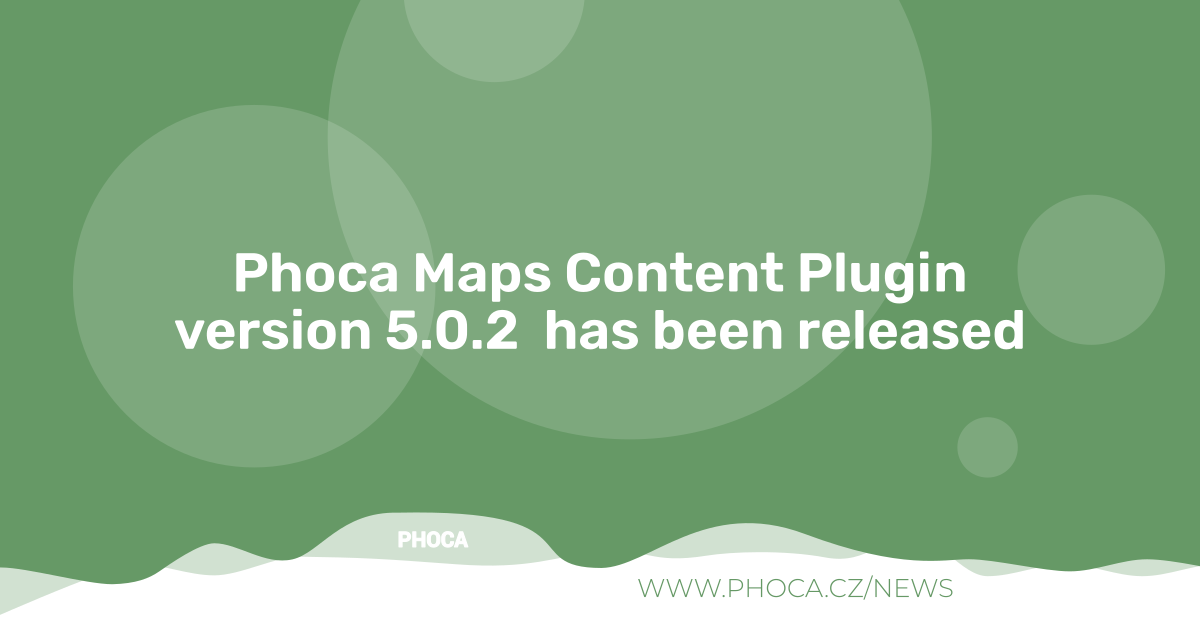
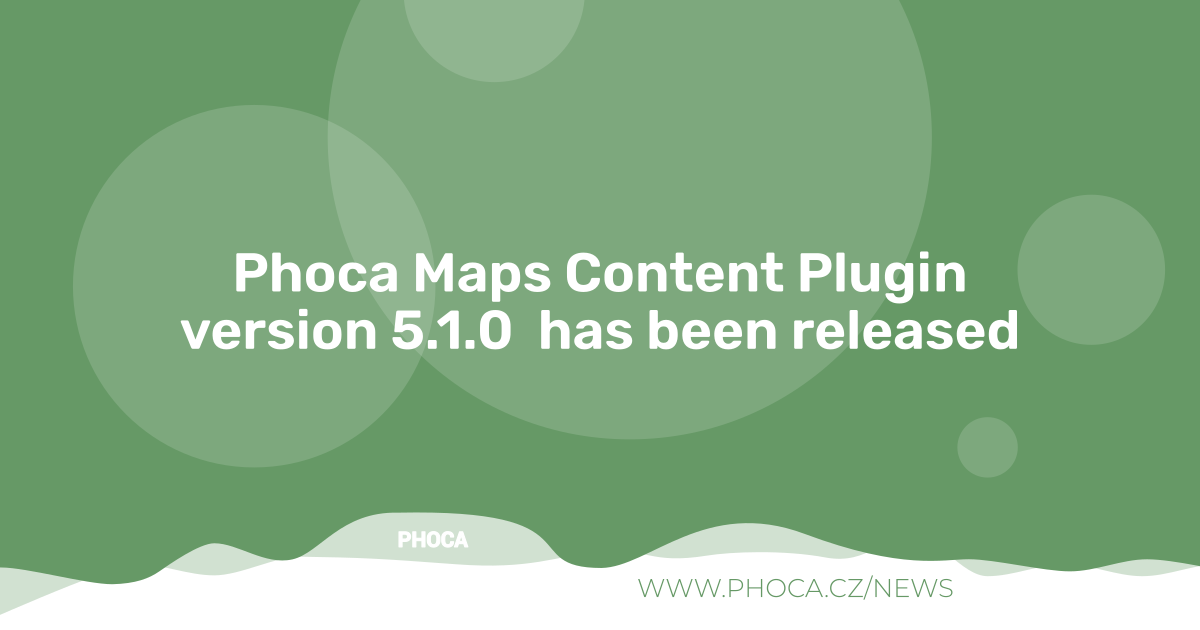
5.1.0

Changed region(s): [[0.1233, 0.4825, 0.8633, 0.573]]

diff --git a/phocamaps.php b/phocamaps.php
@@ -58,7 +58,7 @@ class plgContentPhocaMaps extends CMSPlugin
 
 
 		$app 	= Factory::getApplication();
-		$view	= $app->input->get('view');
+		$view	= $app->getInput()->get('view');
 
 		if ($view == 'tag') { return; }
 

diff --git a/README.MD b/README.MD
@@ -66,7 +66,7 @@ Phoca Maps Plugin is a Joomla! plugin. With Phoca Maps Plugin you can display on
 
 ## Version (Joomla! 5.x)
 
-5.0.2
+5.1.0
 
 
 
